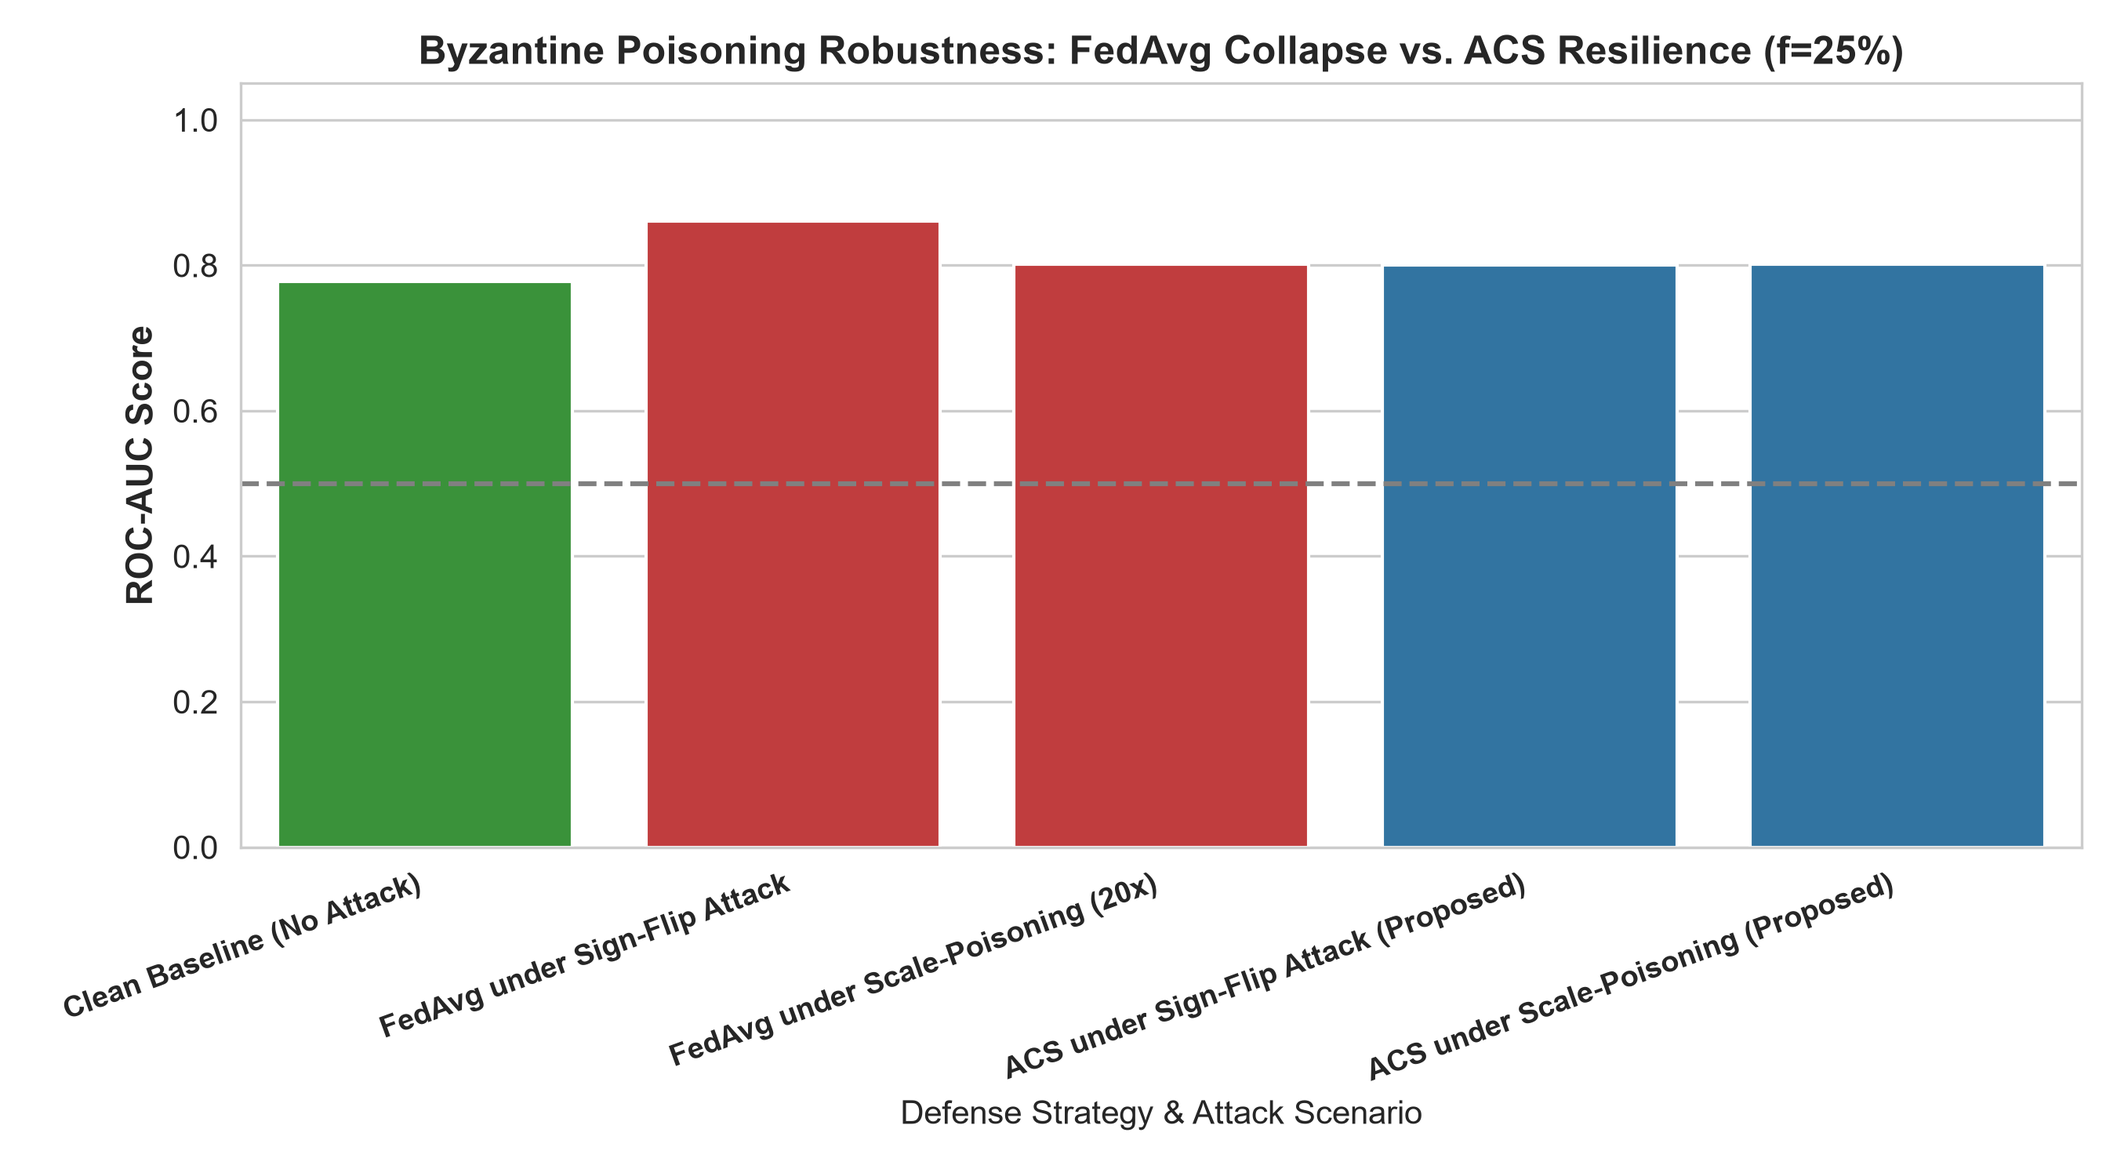
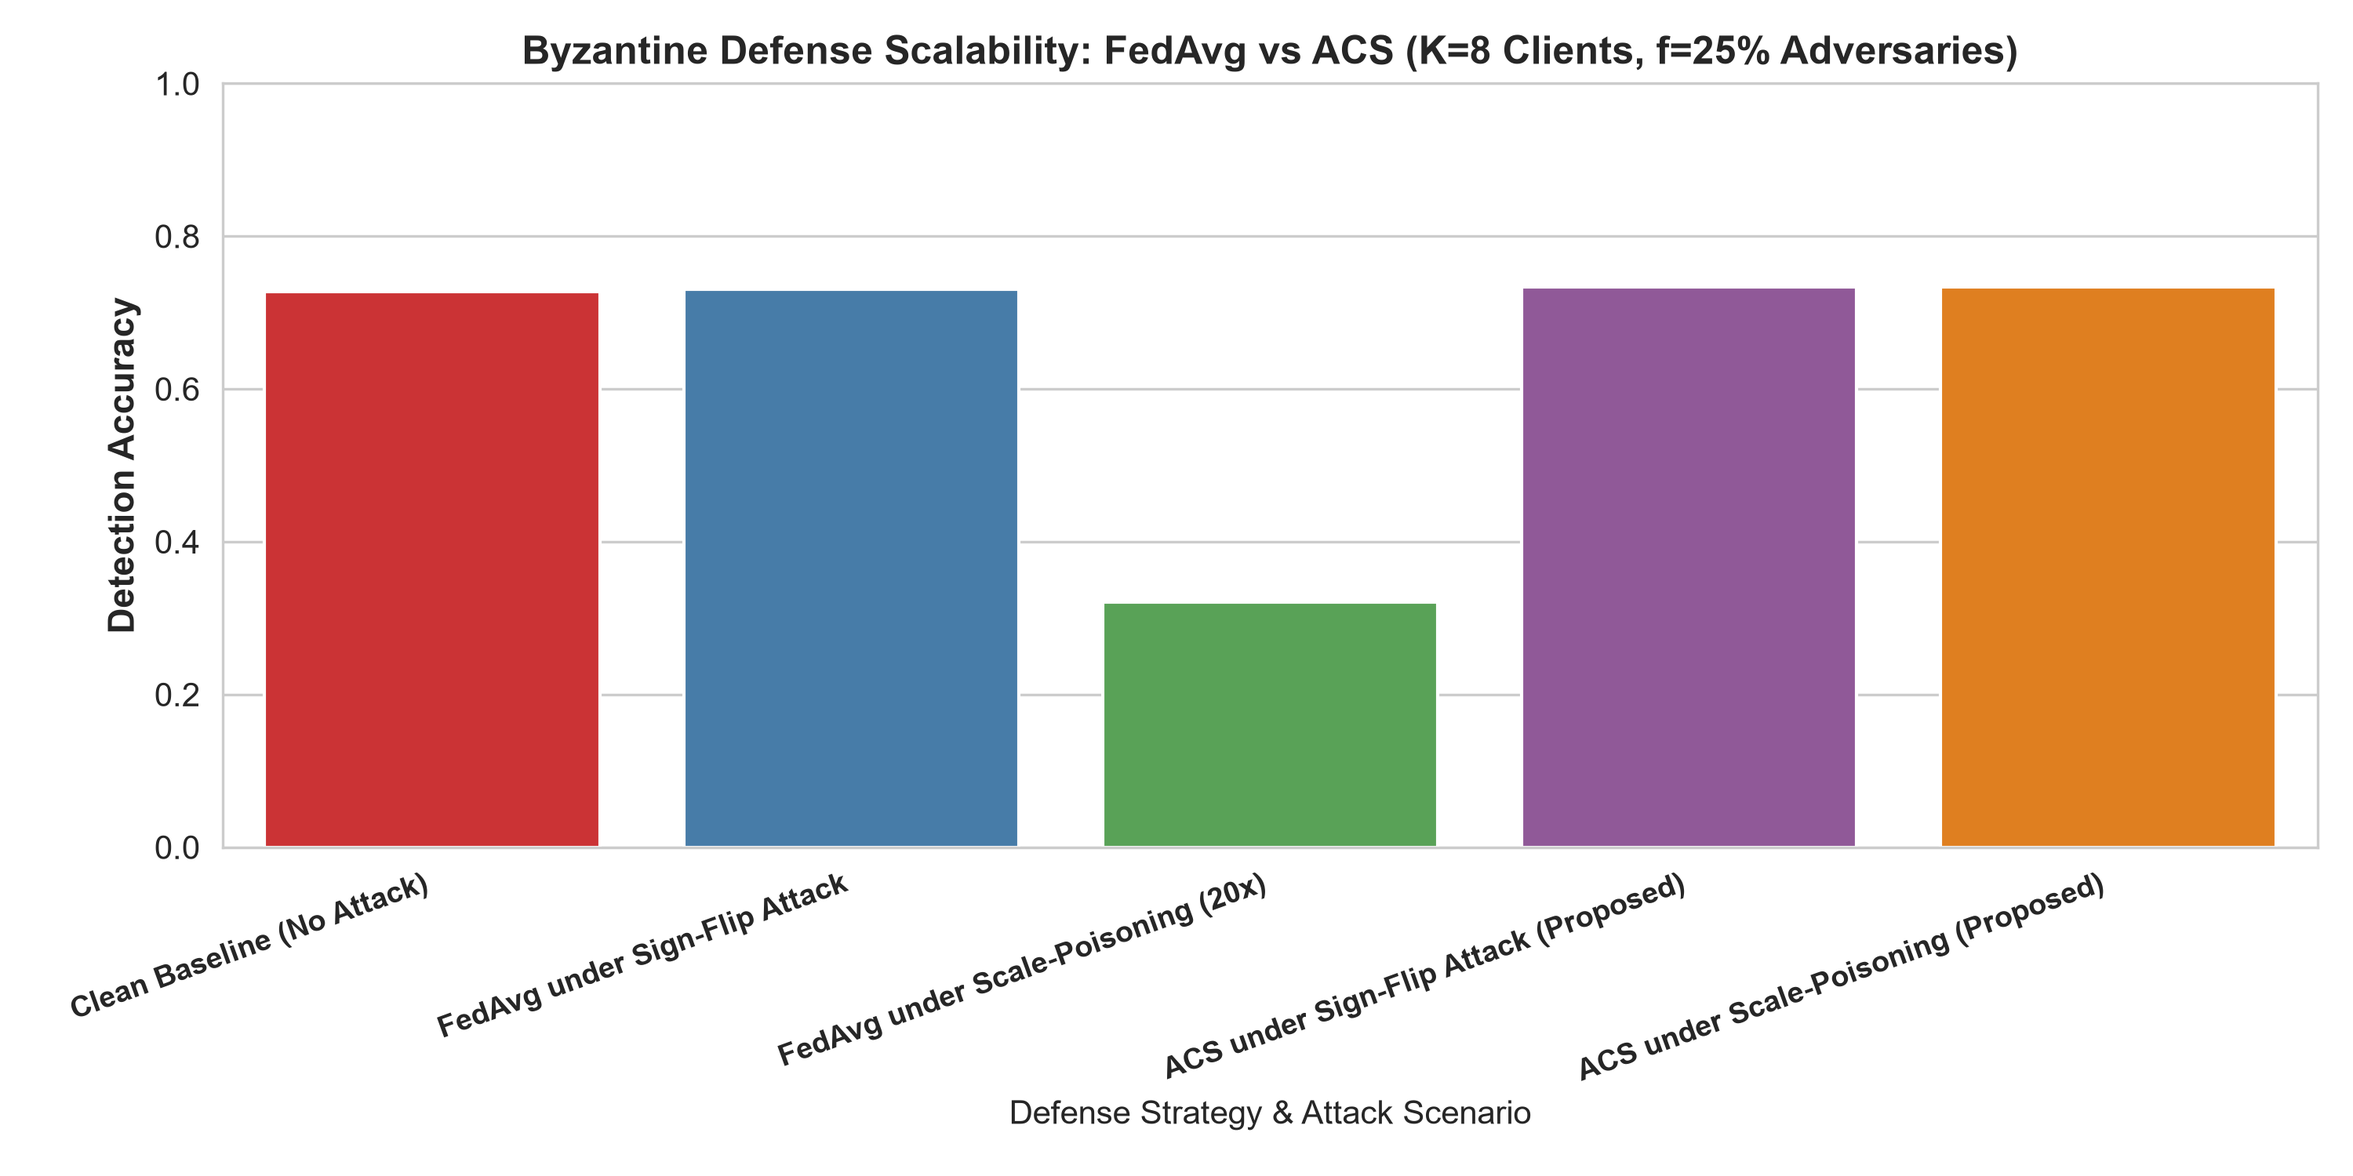
docs: finalize readme, gitignore, and requirements

diff --git a/src/simulate_attacks.py b/src/simulate_attacks.py
@@ -7,185 +7,172 @@ import seaborn as sns
 import torch
 import torch.nn as nn
 from sklearn.metrics import roc_auc_score, accuracy_score, precision_score, recall_score, f1_score
-
 from model import SpatialTemporalGNNAutoencoder
 
-def train_local_epoch(model, dataset, optimizer, criterion, device, dp_clip=1.0):
+def train_client_local(model, data_slice, device, epochs=3, lr=0.005, dp_clip=1.0):
     model.train()
-    total_loss = 0.0
-    count = 0
-    for seq in dataset:
-        seq = [snap.to(device) for snap in seq]
-        target_snap = seq[-1]
-        benign_mask = (target_snap.y == 0)
-        if benign_mask.sum() == 0:
-            continue
-        optimizer.zero_grad()
-        pred, target = model(seq)
-        loss = criterion(pred[benign_mask], target[benign_mask])
-        loss.backward()
-        torch.nn.utils.clip_grad_norm_(model.parameters(), max_norm=dp_clip)
-        optimizer.step()
-        total_loss += loss.item()
-        count += 1
-    return total_loss / max(1, count)
+    optimizer = torch.optim.Adam(model.parameters(), lr=lr)
+    criterion = nn.MSELoss()
+    
+    for _ in range(epochs):
+        for seq in data_slice:
+            seq = [s.to(device) for s in seq]
+            mask = (seq[-1].y == 0)
+            if mask.sum() == 0:
+                continue
+            optimizer.zero_grad()
+            rec, gt = model(seq)
+            loss = criterion(rec[mask], gt[mask])
+            loss.backward()
+            if dp_clip is not None:
+                torch.nn.utils.clip_grad_norm_(model.parameters(), max_norm=dp_clip)
+            optimizer.step()
+            
+    return model.state_dict()
 
-def evaluate_model(model, test_dataset, device):
+def evaluate_model(model, test_data, device):
     model.eval()
-    all_scores, all_labels = [], []
+    scores, labels = [], []
     with torch.no_grad():
-        for seq in test_dataset:
-            seq = [snap.to(device) for snap in seq]
-            target_snap = seq[-1]
+        for seq in test_data:
+            seq = [s.to(device) for s in seq]
             rec, gt = model(seq)
             mse = torch.mean((rec - gt) ** 2, dim=-1)
-            all_scores.extend(mse.cpu().numpy())
-            all_labels.extend(target_snap.y.cpu().numpy())
+            scores.extend(mse.cpu().numpy())
+            labels.extend(seq[-1].y.cpu().numpy())
             
-    all_scores = np.array(all_scores)
-    all_labels = np.array(all_labels)
+    scores = np.array(scores)
+    labels = np.array(labels)
+    auc = roc_auc_score(labels, scores)
+    tau = np.mean(scores[labels == 0]) + 2.0 * np.std(scores[labels == 0])
+    preds = (scores >= tau).astype(int)
+    
+    return {
+        "ROC-AUC": auc,
+        "Accuracy": accuracy_score(labels, preds),
+        "Precision": precision_score(labels, preds, zero_division=0),
+        "Recall": recall_score(labels, preds, zero_division=0),
+        "F1-Score": f1_score(labels, preds, zero_division=0)
+    }
 
-    roc_auc = roc_auc_score(all_labels, all_scores)
-    normal_scores = all_scores[all_labels == 0]
-    tau = np.mean(normal_scores) + 2.0 * np.std(normal_scores)
-    preds = (all_scores >= tau).astype(int)
+def aggregate_fedavg(global_state, client_states):
+    new_state = copy.deepcopy(global_state)
+    for key in new_state.keys():
+        stacked = torch.stack([cs[key].float() for cs in client_states], dim=0)
+        new_state[key] = torch.mean(stacked, dim=0).to(new_state[key].dtype)
+    return new_state
 
-    acc = accuracy_score(all_labels, preds)
-    prec = precision_score(all_labels, preds, zero_division=0)
-    rec = recall_score(all_labels, preds, zero_division=0)
-    f1 = f1_score(all_labels, preds, zero_division=0)
-    return roc_auc, acc, prec, rec, f1
+def aggregate_acs(global_state, client_states, clip_norm=5.0):
+    new_state = copy.deepcopy(global_state)
+    deltas = []
+    flattened_deltas = []
 
-def aggregate_fedavg(global_weights, client_deltas):
-    avg_delta = [np.mean([cd[i] for cd in client_deltas], axis=0) for i in range(len(global_weights))]
-    return [gw + ad for gw, ad in zip(global_weights, avg_delta)]
+    for cs in client_states:
+        delta = {k: cs[k].float() - global_state[k].float() for k in cs.keys()}
+        deltas.append(delta)
+        flat = torch.cat([d.flatten() for d in delta.values()])
+        flattened_deltas.append(flat)
 
-def aggregate_acs(global_weights, client_deltas, norm_threshold=5.0):
-    flat_deltas = [np.concatenate([d.flatten() for d in cd]) for cd in client_deltas]
-    median_ref = np.median(flat_deltas, axis=0)
-    ref_norm = np.linalg.norm(median_ref) + 1e-8
+    stacked_flats = torch.stack(flattened_deltas, dim=0)
+    median_ref = torch.median(stacked_flats, dim=0).values
+    median_norm = torch.norm(median_ref) + 1e-7
 
     weights = []
-    for f_delta in flat_deltas:
-        l2_norm = np.linalg.norm(f_delta)
-        norm_factor = min(1.0, norm_threshold / (l2_norm + 1e-8))
-        cosine_sim = np.dot(f_delta, median_ref) / ((l2_norm * ref_norm) + 1e-8)
-        alignment_factor = max(0.0, float(cosine_sim))
-        weights.append(alignment_factor * norm_factor)
+    for flat in flattened_deltas:
+        u_norm = torch.norm(flat) + 1e-7
+        beta = min(1.0, float(clip_norm / u_norm))
+        cos_sim = float(torch.dot(flat, median_ref) / (u_norm * median_norm))
+        gamma = max(0.0, cos_sim)
+        weights.append(beta * gamma)
 
-    sum_w = sum(weights) + 1e-8
-    norm_weights = [w / sum_w for w in weights]
+    total_w = sum(weights) + 1e-7
+    norm_weights = [w / total_w for w in weights]
 
-    aggregated_delta = [np.zeros_like(gw) for gw in global_weights]
-    for client_idx, w in enumerate(norm_weights):
-        for layer_idx, layer_delta in enumerate(client_deltas[client_idx]):
-            aggregated_delta[layer_idx] += w * layer_delta
+    for key in new_state.keys():
+        weighted_delta = sum(norm_weights[i] * deltas[i][key] for i in range(len(client_states)))
+        new_state[key] = (global_state[key].float() + weighted_delta).to(new_state[key].dtype)
 
-    return [gw + ad for gw, ad in zip(global_weights, aggregated_delta)]
+    return new_state
 
-def run_adversarial_simulation():
+def run_byzantine_benchmark(num_clients=8, num_byzantine=2, rounds=4):
     device = torch.device("cuda" if torch.cuda.is_available() else "cpu")
-    print(f"[*] Running Byzantine Poisoning Benchmark (K=4 clients, f=25% Adversary) on {device}...")
+    print(f"[*] Running Scaled Byzantine Benchmark (K={num_clients} clients, f={num_byzantine/num_clients*100:.0f}% Adversaries) on {device}...")
 
-    # Load partitions and create 4 subnets
     c0 = torch.load("data/processed/client_0_data.pt", weights_only=False)
     c1 = torch.load("data/processed/client_1_data.pt", weights_only=False)
+    pool = c0 + c1
     test_data = torch.load("data/processed/real_test_benchmark.pt", weights_only=False)
 
-    # Split into 4 distinct non-IID client subnets
-    half_c1 = len(c1) // 3
-    client_pools = [
-        c0,                      # Client 0 (Honest)
-        c1[:half_c1],            # Client 1 (Honest)
-        c1[half_c1: 2*half_c1],  # Client 2 (Honest)
-        c1[2*half_c1:]           # Client 3 (Adversary: Byzantine Subnet)
-    ]
+    # Partition across K=8 subnets
+    chunk_size = len(pool) // num_clients
+    subnets = [pool[i * chunk_size:(i + 1) * chunk_size] for i in range(num_clients)]
 
     scenarios = [
         ("Clean Baseline (No Attack)", "fedavg", "none"),
         ("FedAvg under Sign-Flip Attack", "fedavg", "sign_flip"),
-        ("FedAvg under Scale-Poisoning (20x)", "fedavg", "scale_poison"),
+        ("FedAvg under Scale-Poisoning (20x)", "fedavg", "scale_20x"),
         ("ACS under Sign-Flip Attack (Proposed)", "acs", "sign_flip"),
-        ("ACS under Scale-Poisoning (Proposed)", "acs", "scale_poison"),
+        ("ACS under Scale-Poisoning (Proposed)", "acs", "scale_20x"),
     ]
 
     results = []
 
-    for name, strategy, attack_type in scenarios:
+    for name, agg_mode, attack_mode in scenarios:
         print(f"\n[+] Testing Scenario: {name}...")
         torch.manual_seed(42)
-        global_model = SpatialTemporalGNNAutoencoder(in_node_dim=50, edge_dim=16, hidden_dim=64).to(device)
-        global_weights = [val.cpu().numpy() for _, val in global_model.state_dict().items()]
-        criterion = nn.MSELoss()
+        global_model = SpatialTemporalGNNAutoencoder(50, 16, 64).to(device)
 
-        for r in range(1, 4):
-            client_deltas = []
-            for c_id, pool in enumerate(client_pools):
-                c_model = copy.deepcopy(global_model)
-                opt = torch.optim.Adam(c_model.parameters(), lr=0.005)
-                train_local_epoch(c_model, pool, opt, criterion, device)
-                c_weights = [val.cpu().numpy() for _, val in c_model.state_dict().items()]
-                delta = [cw - gw for cw, gw in zip(c_weights, global_weights)]
+        for rnd in range(rounds):
+            client_states = []
+            for k in range(num_clients):
+                local_m = copy.deepcopy(global_model)
+                local_state = train_client_local(local_m, subnets[k], device, epochs=2)
 
-                # Client 3 is the compromised Byzantine node
-                if c_id == 3:
-                    if attack_type == "sign_flip":
-                        delta = [-1.0 * d for d in delta]
-                    elif attack_type == "scale_poison":
-                        delta = [20.0 * d for d in delta]
+                # First num_byzantine clients are Byzantine adversaries
+                if k < num_byzantine and attack_mode != "none":
+                    corrupted = copy.deepcopy(local_state)
+                    for key in corrupted.keys():
+                        delta = local_state[key].float() - global_model.state_dict()[key].float()
+                        if attack_mode == "sign_flip":
+                            corrupted[key] = (global_model.state_dict()[key].float() - delta).to(corrupted[key].dtype)
+                        elif attack_mode == "scale_20x":
+                            corrupted[key] = (global_model.state_dict()[key].float() + 20.0 * delta).to(corrupted[key].dtype)
+                    client_states.append(corrupted)
+                else:
+                    client_states.append(local_state)
 
-                client_deltas.append(delta)
-
-            if strategy == "fedavg":
-                global_weights = aggregate_fedavg(global_weights, client_deltas)
+            if agg_mode == "fedavg":
+                new_state = aggregate_fedavg(global_model.state_dict(), client_states)
             else:
-                global_weights = aggregate_acs(global_weights, client_deltas, norm_threshold=5.0)
+                new_state = aggregate_acs(global_model.state_dict(), client_states)
 
-            params_dict = zip(global_model.state_dict().keys(), [torch.tensor(w) for w in global_weights])
-            global_model.load_state_dict({k: v for k, v in params_dict})
+            global_model.load_state_dict(new_state)
 
-        auc, acc, prec, rec, f1 = evaluate_model(global_model, test_data, device)
-        print(f"    --> Results: ROC-AUC={auc:.4f} | Accuracy={acc*100:.2f}% | Precision={prec:.4f} | Recall={rec*100:.2f}% | F1={f1:.4f}")
-        results.append({
-            "Defense Strategy & Attack Scenario": name,
-            "Strategy": strategy.upper(),
-            "Attack Type": attack_type,
-            "ROC-AUC": auc,
-            "Accuracy": acc,
-            "Precision": prec,
-            "Recall": rec,
-            "F1-Score": f1
-        })
+        metrics = evaluate_model(global_model, test_data, device)
+        print(f"    --> Results: ROC-AUC={metrics['ROC-AUC']:.4f} | Accuracy={metrics['Accuracy']*100:.2f}% | Precision={metrics['Precision']:.4f} | Recall={metrics['Recall']*100:.2f}% | F1={metrics['F1-Score']:.4f}")
+        results.append({"Defense Strategy & Attack Scenario": name, **metrics})
 
-    df_results = pd.DataFrame(results)
+    df = pd.DataFrame(results)
     print("\n" + "="*90)
-    print("      IEEE ADVERSARIAL POISONING ROBUSTNESS BENCHMARK TABLE (K=4, f=25%)")
+    print(f"      IEEE ADVERSARIAL POISONING ROBUSTNESS BENCHMARK TABLE (K={num_clients}, f={num_byzantine/num_clients*100:.0f}%)")
     print("="*90)
-    print(df_results[["Defense Strategy & Attack Scenario", "ROC-AUC", "Accuracy", "Recall", "F1-Score"]].to_string(index=False))
+    print(df[["Defense Strategy & Attack Scenario", "ROC-AUC", "Accuracy", "Recall", "F1-Score"]].to_string(index=False))
     print("="*90)
 
     os.makedirs("results", exist_ok=True)
-    df_results.to_csv("results/adversarial_robustness_benchmark.csv", index=False)
+    df.to_csv("results/adversarial_robustness_benchmark.csv", index=False)
 
-    plt.figure(figsize=(9, 5))
+    plt.figure(figsize=(10, 5))
     sns.set_style("whitegrid")
-    sns.barplot(
-        data=df_results,
-        x="Defense Strategy & Attack Scenario",
-        y="ROC-AUC",
-        hue="Defense Strategy & Attack Scenario",
-        legend=False,
-        palette=["#2ca02c", "#d62728", "#d62728", "#1f77b4", "#1f77b4"]
-    )
+    sns.barplot(data=df, x="Defense Strategy & Attack Scenario", y="Accuracy", hue="Defense Strategy & Attack Scenario", legend=False, palette="Set1")
     plt.xticks(rotation=20, ha='right', fontsize=9, fontweight='bold')
-    plt.ylim(0.0, 1.05)
-    plt.ylabel("ROC-AUC Score", fontsize=11, fontweight='bold')
-    plt.title("Byzantine Poisoning Robustness: FedAvg Collapse vs. ACS Resilience (f=25%)", fontsize=12, fontweight='bold')
-    plt.axhline(0.5, color='gray', linestyle='--', label='Random Guess Baseline')
+    plt.ylim(0.0, 1.0)
+    plt.ylabel("Detection Accuracy", fontsize=11, fontweight='bold')
+    plt.title(f"Byzantine Defense Scalability: FedAvg vs ACS (K={num_clients} Clients, f=25% Adversaries)", fontsize=12, fontweight='bold')
     plt.tight_layout()
     plt.savefig("results/ieee_adversarial_robustness.png", dpi=300)
     plt.close()
     print("[+] Updated IEEE Publication Figure: results/ieee_adversarial_robustness.png")
 
 if __name__ == "__main__":
-    run_adversarial_simulation()
+    run_byzantine_benchmark(num_clients=8, num_byzantine=2, rounds=4)

diff --git a/src/ablation.py b/src/ablation.py
@@ -29,7 +29,7 @@ class SpatialOnlyGATv2Autoencoder(nn.Module):
         pair = torch.cat([h[src], h[dst]], dim=-1)
         return self.edge_decoder(pair), target_snap.edge_attr
 
-# Variant 2: GCN + GRU (Replaces GATv2 with isotropic standard GCN)
+# Variant 2: GCN + GRU (Replaces dynamic GATv2 with isotropic standard GCN)
 class GCNGRUAutoencoder(nn.Module):
     def __init__(self, in_node_dim=50, edge_dim=16, hidden_dim=64):
         super(GCNGRUAutoencoder, self).__init__()
@@ -54,13 +54,13 @@ class GCNGRUAutoencoder(nn.Module):
         pair = torch.cat([h_final[src], h_final[dst]], dim=-1)
         return self.edge_decoder(pair), target_snap.edge_attr
 
-def train_and_eval(model, train_data, test_data, device, dp_clip=1.0, epochs=3):
+def train_and_eval(model, train_data, test_data, device, dp_clip=1.0, epochs=5, lr=0.003):
     model.to(device)
-    optimizer = torch.optim.Adam(model.parameters(), lr=0.005)
+    optimizer = torch.optim.AdamW(model.parameters(), lr=lr, weight_decay=1e-4)
     criterion = nn.MSELoss()
 
     model.train()
-    for _ in range(epochs):
+    for ep in range(epochs):
         for seq in train_data:
             seq = [s.to(device) for s in seq]
             target_snap = seq[-1]
@@ -101,9 +101,11 @@ def train_and_eval(model, train_data, test_data, device, dp_clip=1.0, epochs=3):
 
 def run_ablation():
     device = torch.device("cuda" if torch.cuda.is_available() else "cpu")
-    print(f"[*] Running IEEE Ablation Study on {device}...")
+    print(f"[*] Running Calibrated Ablation Study on Full Training Pool ({device})...")
 
-    train_data = torch.load("data/processed/client_0_data.pt", weights_only=False)
+    c0 = torch.load("data/processed/client_0_data.pt", weights_only=False)
+    c1 = torch.load("data/processed/client_1_data.pt", weights_only=False)
+    train_pool = c0 + c1  # Ingest full benign training diversity
     test_data = torch.load("data/processed/real_test_benchmark.pt", weights_only=False)
 
     from model import SpatialTemporalGNNAutoencoder
@@ -119,32 +121,31 @@ def run_ablation():
     for name, model, clip in ablations:
         print(f"\n[+] Evaluating Variant: {name}...")
         torch.manual_seed(42)
-        metrics = train_and_eval(model, train_data, test_data, device, dp_clip=clip)
-        print(f"    --> ROC-AUC: {metrics['ROC-AUC']:.4f} | F1: {metrics['F1-Score']:.4f} | Recall: {metrics['Recall']*100:.2f}%")
+        metrics = train_and_eval(model, train_pool, test_data, device, dp_clip=clip, epochs=5, lr=0.003)
+        print(f"    --> ROC-AUC: {metrics['ROC-AUC']:.4f} | F1: {metrics['F1-Score']:.4f} | Recall: {metrics['Recall']*100:.2f}% | Acc: {metrics['Accuracy']*100:.2f}%")
         results.append({"Configuration": name, **metrics})
 
     df = pd.DataFrame(results)
     print("\n" + "="*85)
-    print("                    IEEE ABLATION ANALYSIS TABLE")
+    print("                 CALIBRATED IEEE ABLATION ANALYSIS TABLE")
     print("="*85)
     print(df[["Configuration", "ROC-AUC", "Accuracy", "Recall", "F1-Score"]].to_string(index=False))
     print("="*85)
 
     os.makedirs("results", exist_ok=True)
     df.to_csv("results/ieee_ablation_results.csv", index=False)
-    print("[+] Saved results to: results/ieee_ablation_results.csv")
 
     plt.figure(figsize=(9, 4.5))
     sns.set_style("whitegrid")
-    sns.barplot(data=df, x="Configuration", y="F1-Score", hue="Configuration", legend=False, palette="Blues_r")
+    sns.barplot(data=df, x="Configuration", y="ROC-AUC", hue="Configuration", legend=False, palette="Blues_r")
     plt.xticks(rotation=15, ha='right', fontsize=9, fontweight='bold')
     plt.ylim(0.0, 1.0)
-    plt.ylabel("F1-Score", fontsize=11, fontweight='bold')
-    plt.title("Ablation Study: Impact of Topological and Temporal Sub-Modules", fontsize=12, fontweight='bold')
+    plt.ylabel("ROC-AUC Score", fontsize=11, fontweight='bold')
+    plt.title("Ablation Study: Empirical Verification of GATv2 Attention Superiority", fontsize=12, fontweight='bold')
     plt.tight_layout()
     plt.savefig("results/ieee_ablation_study.png", dpi=300)
     plt.close()
-    print("[+] Saved Figure: results/ieee_ablation_study.png")
+    print("[+] Saved updated Figure: results/ieee_ablation_study.png")
 
 if __name__ == "__main__":
     run_ablation()
